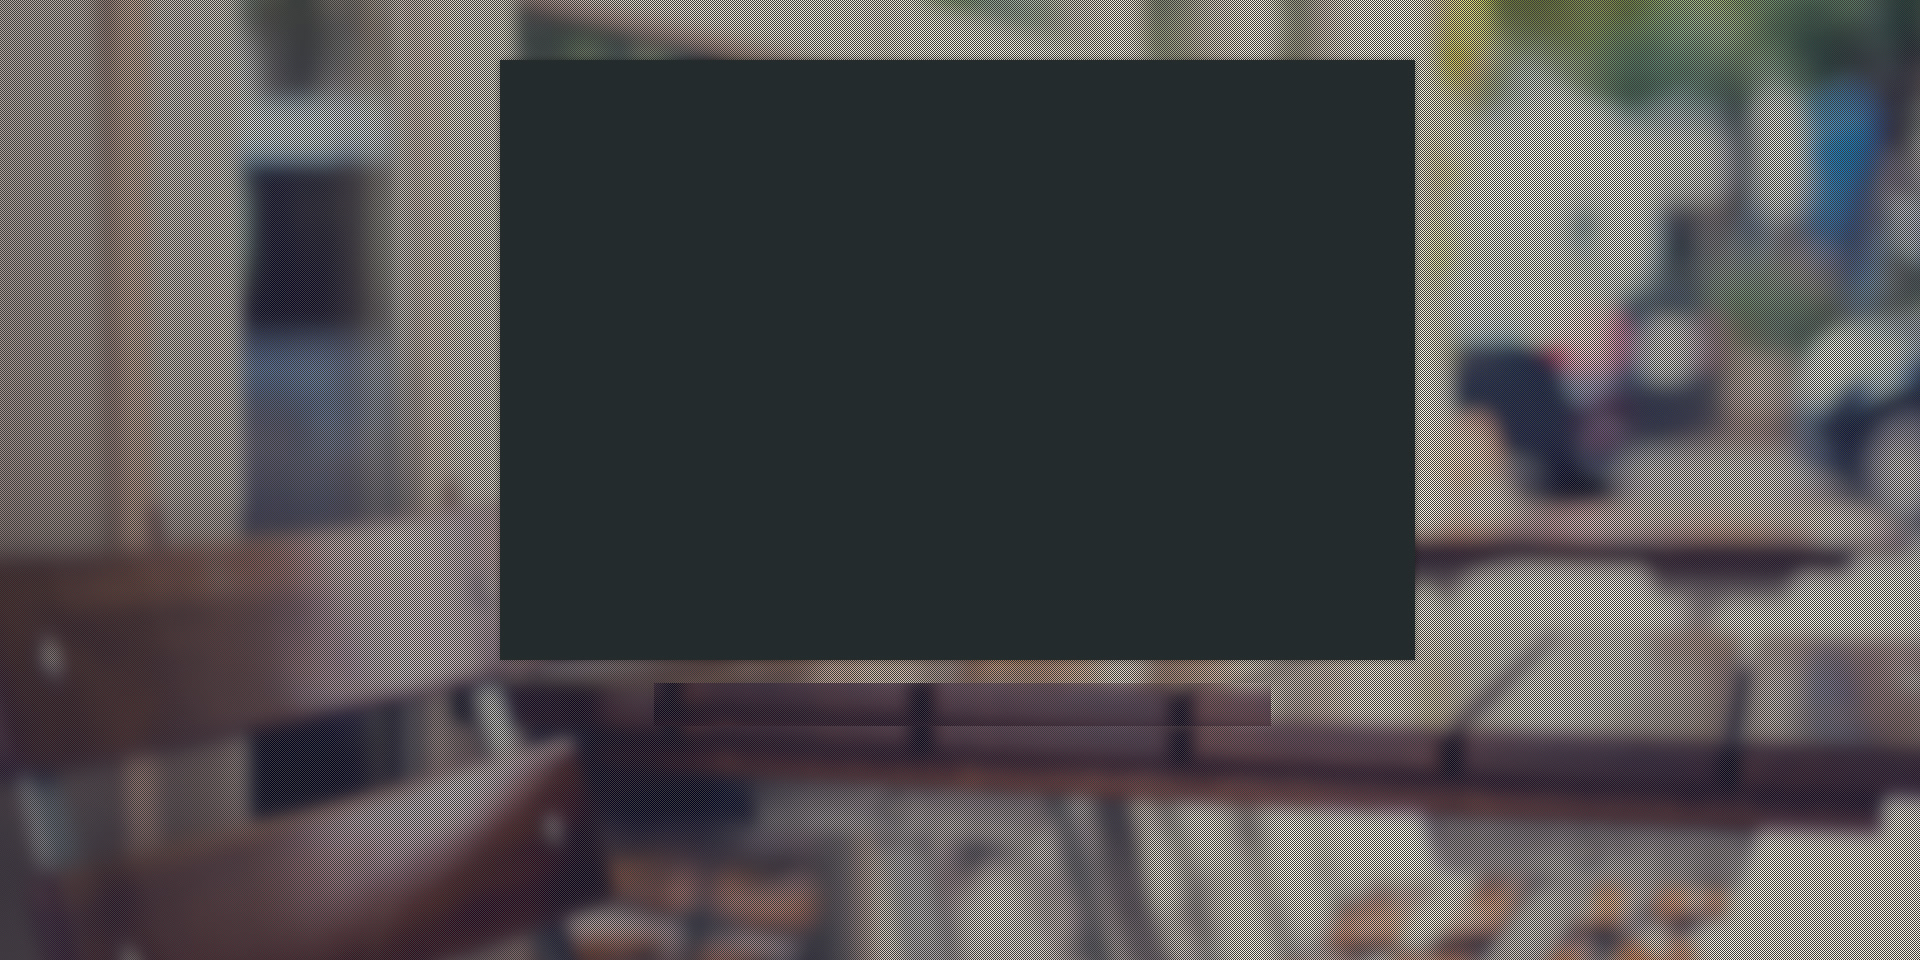
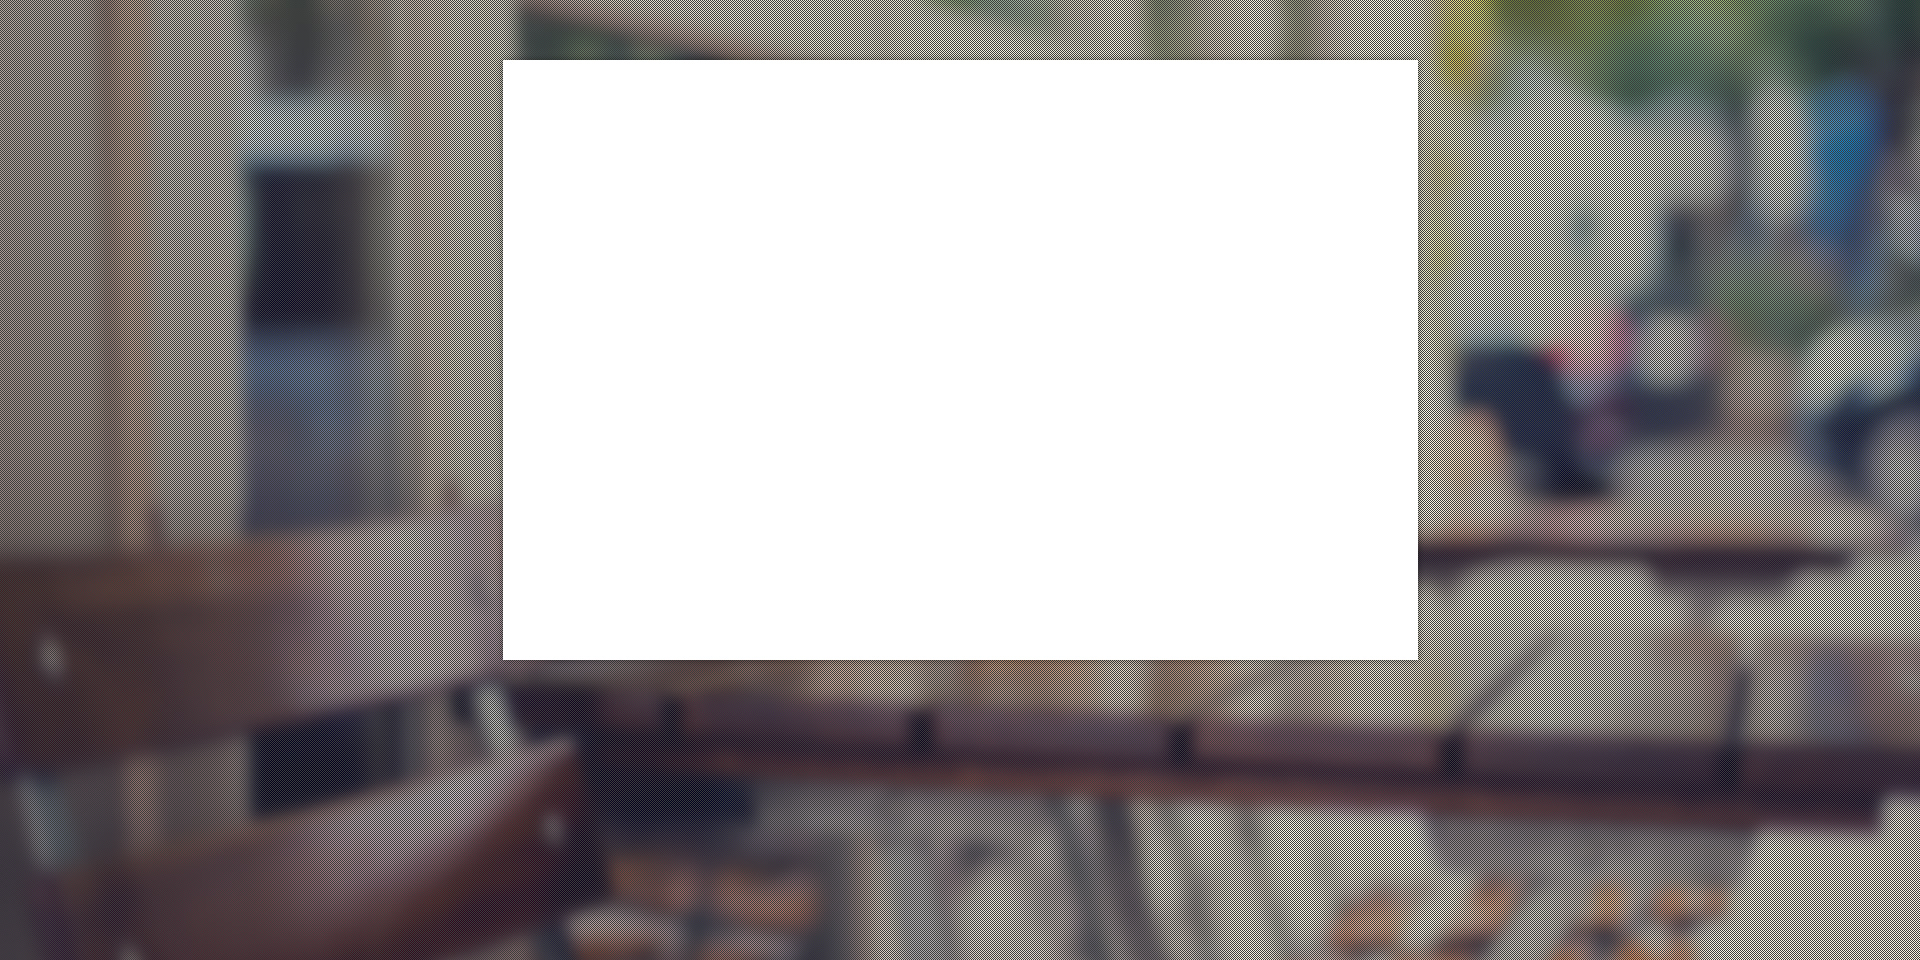
login css set

diff --git a/resource/css/login-b.min.css b/resource/css/login-b.min.css
@@ -1,4 +1,4 @@
-body{background-image:url(img/bg-login-page.jpg);background-position:top center;}
+body{background-image:url(img/bg-login-page.jpg);background-position:top center;background-color:#000;}
 #main-body{width:915px;height:600px;margin:60px auto auto auto;}
 .ads-pic{width:600px;height:600px;float:left;}
 .login-place{width:315px;height:600px;float:right;background-image:url(img/bg-login.jpg);}
